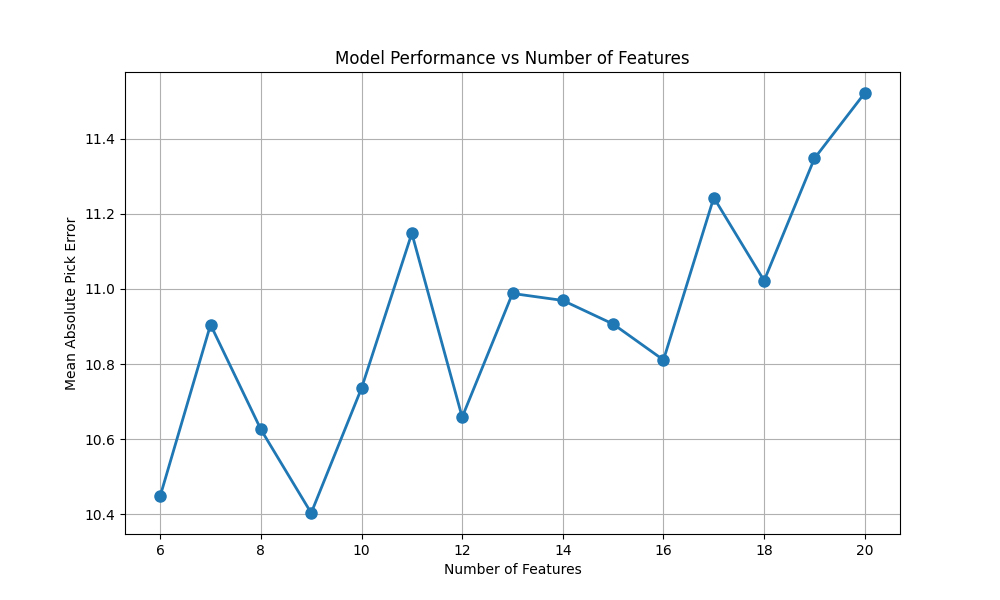
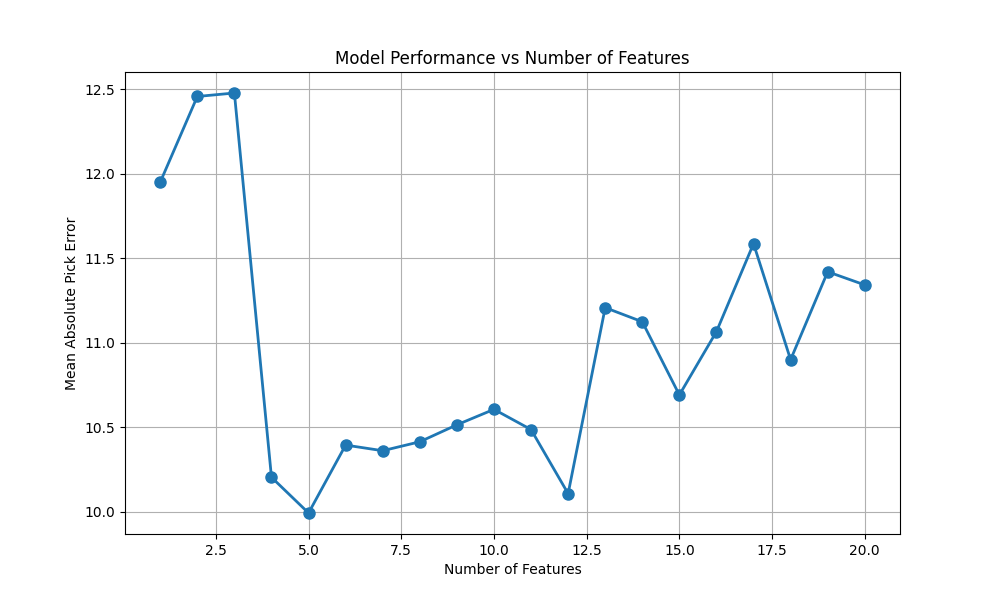
disable feature performance

diff --git a/neural-network/neural_network_model.py b/neural-network/neural_network_model.py
@@ -194,6 +194,8 @@ def prepare_features(df: pd.DataFrame, is_training: bool = True, n_features: int
         "HT",      # Player Height
         "WT",
         "PER",     # Player Efficiency Rating
+        "PPS",     # Points Per Shot
+        "AST%",
         "TS%",     # True Shooting Percentage
         "TRB%",    # Total Rebound Percentage
         "eFG%",    # Effective Field Goal Percentage
@@ -201,10 +203,8 @@ def prepare_features(df: pd.DataFrame, is_training: bool = True, n_features: int
         "ORB%",    # Offensive Rebound Percentage
         "ORtg",    # Offensive Rating
         "DRtg",    # Defensive Rating
-        "PPS",     # Points Per Shot
         "USG%",    # Usage Percentage
         "GP",
-        "AST%",
         "TOV%",
         "STL%",
         "BLK%",
@@ -468,7 +468,7 @@ def plot_feature_performance_curve(data_path: str, year: str):
     train_df, test_df = load_and_preprocess_data(data_path, test_file)
 
     # Test different feature counts from 6 to all features
-    feature_counts = range(6, 21, 1)  # [6, 8, 10, ..., 20]
+    feature_counts = range(1, 21, 1)  # [6, 8, 10, ..., 20]
     mean_errors = []
 
     for n_features in feature_counts:
@@ -561,7 +561,7 @@ def main():
     else:
         train_and_test_model(data_path, "2025", show_plots=True)
         # Add feature performance analysis
-        plot_feature_performance_curve(data_path, "2020")
+        # plot_feature_performance_curve(data_path, "2025")
 
 
 if __name__ == "__main__":
